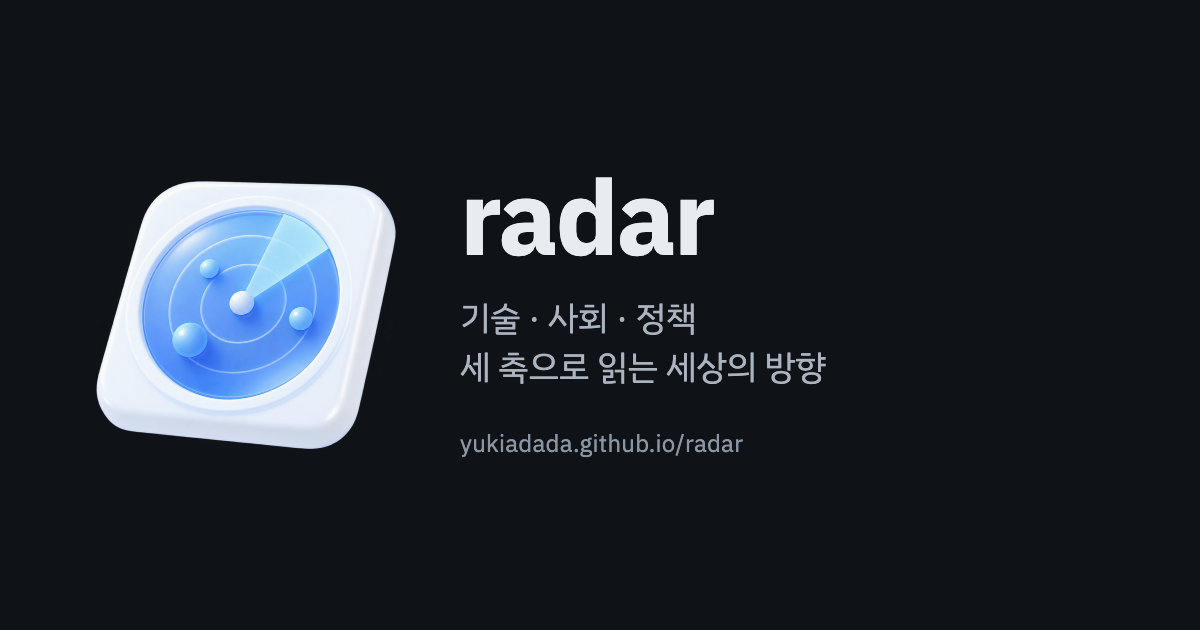
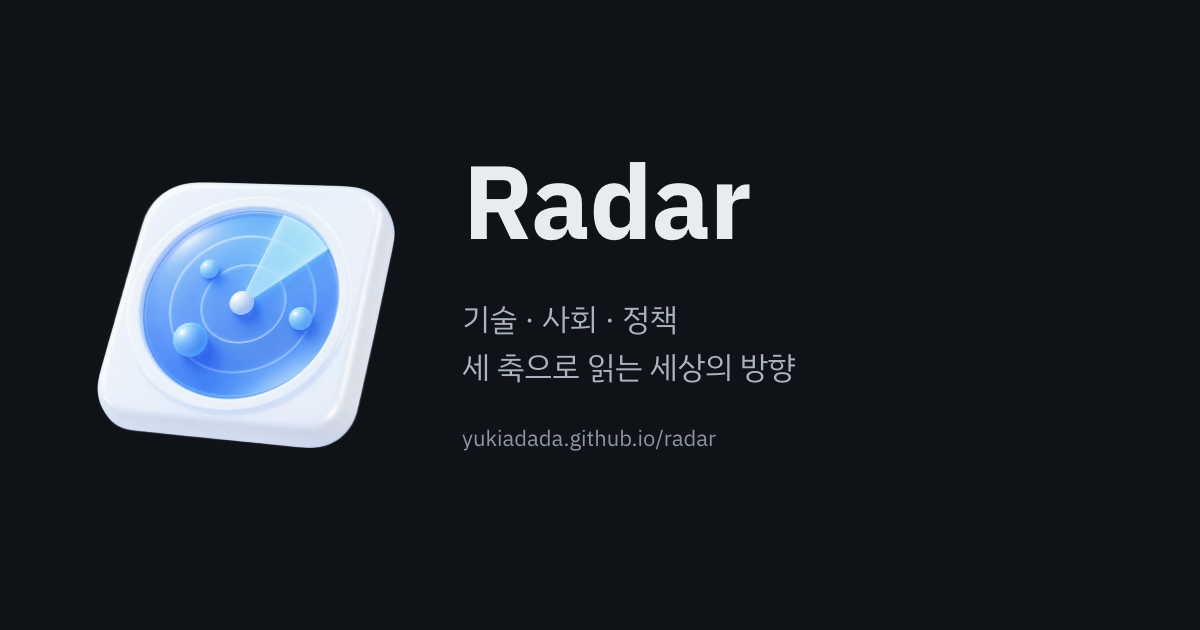
오늘 탭: 상단 요약 4칸 삭제, 오늘의 브리프를 방향별 정렬 위로, 쉬운 말로 읽는 지금의 방향을 방향별 정렬 아래로. 공유 이미지 og.png 도 Radar 로

diff --git a/site/index.html b/site/index.html
@@ -121,12 +121,6 @@ h2.sec .dim{font-size:var(--fs-sm);margin-left:8px}
 .sec-note{flex:0 0 100%;order:3;margin:0;font-size:var(--fs-sm);color:var(--ink2)}
 
 /* 한눈에 요약: 답을 먼저 */
-.sum{display:grid;grid-template-columns:repeat(auto-fit,minmax(min(220px,100%),1fr));gap:12px;margin:28px 0 0}
-.sumc{position:relative;background:var(--panel);border:1px solid var(--hair);border-radius:var(--r-card);padding:16px 18px 14px;min-width:0;overflow:hidden}
-.sumc .k{margin:0;font-size:var(--fs-cap);font-weight:600;color:var(--ink2)}
-.sumc .v{display:block;overflow-wrap:anywhere;margin:6px 0 4px;font-size:22px;font-weight:700;line-height:1.3;letter-spacing:-.02em;color:var(--ink);text-decoration:none;font-variant-numeric:tabular-nums}
-.sumc a.v:hover{text-decoration:underline}
-.sumc .d{margin:0;font-size:var(--fs-sm);color:var(--ink2);display:flex;flex-wrap:wrap;gap:4px 8px;align-items:center;font-variant-numeric:tabular-nums}
 
 /* 펼침 공통 */
 summary{cursor:pointer;list-style:none}
@@ -380,9 +374,6 @@ mark.todo{background:color-mix(in srgb,var(--neg) 10%,var(--panel));color:var(--
   .sh{margin-top:44px}
   .dash,.glance{grid-template-columns:minmax(0,1fr)}
   .dgrid{grid-template-columns:minmax(0,1fr)}
-  .sum{grid-template-columns:minmax(0,1fr) minmax(0,1fr)}
-  .sumc{padding:14px}
-  .sumc .v{font-size:19px}
   .kpis{grid-template-columns:minmax(0,1fr) minmax(0,1fr)}
   .kpi b{font-size:22px}
   .dirlead{padding:16px 18px}
@@ -394,7 +385,6 @@ mark.todo{background:color-mix(in srgb,var(--neg) 10%,var(--panel));color:var(--
   .filters label{flex:1 1 140px}
   .filters select{width:100%}
 }
-@media (max-width:420px){.sum{grid-template-columns:minmax(0,1fr)}}
 @media (prefers-reduced-motion:reduce){*,*::before,*::after{transition:none!important;animation:none!important}}
 @media (forced-colors:active){.axneg i,.axpos i,.atttrack i{forced-color-adjust:none}.lbl,.axtag,.st{border:1px solid CanvasText}}
 </style>
@@ -679,37 +669,12 @@ mark.todo{background:color-mix(in srgb,var(--neg) 10%,var(--panel));color:var(--
     const B = D.board.w30, b = D.briefs[0];
     REDRAW = null;
     const dirs = B.directions.filter(x => x.n).sort((a, c) => (c.score - a.score) || (c.n - a.n)), quiet = B.directions.filter(x => !x.n);
-    const RANK = { aligned3: 0, aligned2: 1, aligned1: 2, neutral: 3, mixed: 4, headwind: 5, none: 6 };
     const meta = [`최근 30일 장부 ${B.total}건`, `전체 ${D.ledger.length}건`, ledgerNote(), rawLine(b ? b.date : D.today)].filter(Boolean).map(esc);
     let h = pageHead({ eyebrow: fmtDate(D.today), title: '지금 세상의 방향', lede: '기술 · 사회 · 정책 세 축이 같은 쪽을 가리킬수록 %가 높습니다. 50%가 중립, 100%는 세 축 모두 밀어줌입니다.', meta });
 
-    /* 한눈에: 가장 정렬된 방향, 가장 눌린 방향, 새 근거, 시장이 근거를 따라갔는지 */
-    if (dirs.length) {
-      const top = dirs.slice().sort((a, c) => (RANK[a.label] - RANK[c.label]) || (c.score - a.score))[0];
-      const low = dirs.slice().sort((a, c) => (a.score - c.score) || (RANK[c.label] - RANK[a.label]))[0];
-      const cut7 = new Date(Date.parse(D.today + 'T00:00:00Z') - 7 * 864e5).toISOString().slice(0, 10);
-      const n7 = D.ledger.filter(r => r.date > cut7).length;
-      const sumc = (cls, k, v, d) => `<div class="sumc ${cls}"><p class="k">${k}</p>${v}<p class="d">${d}</p></div>`;
-      const dirLink = x => `<a class="v" href="#/sectors">${esc(x.direction)}</a>`;
-      let cards = sumc('pos', top.label === 'aligned3' ? '세 축이 모인 방향' : '가장 정렬된 방향', dirLink(top), `<b class="pct ${pctCls(top.score)}">${pctText(top.score)}</b>${labelHtml(top.label)}`);
-      if (low !== top) cards += sumc(low.score < 50 ? 'neg' : '', '가장 눌린 방향', dirLink(low), `<b class="pct ${pctCls(low.score)}">${pctText(low.score)}</b>${labelHtml(low.label)}`);
-      cards += sumc('', '최근 7일 새 근거', `<span class="v">${n7}건</span>`, `<a href="#/ledger">장부에서 보기</a>`);
-      if (D.market_meta) {
-        const rows30 = D.ledger.filter(r => r.date >= B.from && r.date <= B.to && D.market[r.line]), cnt = {};
-        rows30.forEach(r => { const v = D.market[r.line].verdict || '±'; cnt[v] = (cnt[v] || 0) + 1; });
-        const up = cnt['방향대로'] || 0, dn = cnt['반대로'] || 0, rest = rows30.length - up - dn;
-        if (up + dn) cards += sumc('', '시장이 근거대로 움직인 비율', `<span class="v">${Math.round(up / (up + dn) * 100)}%</span>`, `방향대로 ${up} · 반대로 ${dn}${rest ? ` · 판정 전 ${rest}` : ''}`);
-      }
-      h += `<section class="sum" aria-label="한눈에 보기">${cards}</section>`;
-    }
-
-    /* 쉬운 말 방향 브리프: 요약은 바로, 전문은 펼쳐서 */
-    const DB = D.direction_brief ? dirBriefParts(D.direction_brief) : null;
-    if (DB) {
-      h += secHead('쉬운 말로 읽는 지금의 방향', `${DB.date ? `${DB.date} 기준 · ` : ''}중학생도 읽을 수 있게 쓴 요약입니다.`);
-      h += `<div class="dirlead" id="dirlead"></div><details class="dirbrief" id="dirbrief-d"><summary>전체 브리프 읽기 <span class="dim">${DB.count ? `방향 ${DB.count}개 · ` : ''}약 ${DB.minutes}분</span></summary><div id="dirbrief"></div></details>`;
-    }
-
+    /* 오늘의 브리프: 방향별 정렬 위 */
+    if (b) h += secHead(b.date === D.today ? '오늘의 브리프' : '최근 브리프', `${fmtDate(b.date)} · 구조적 ${b.none_today ? '없음' : b.structural + '건'}`, `<a href="#/brief/${b.date}">따로 열기 →</a>`) + `<div id="brief"></div>`;
+    else h += secHead('브리프') + `<p class="empty">아직 새 체계의 브리프가 없습니다. 다음 /brief 부터 쌓입니다.</p>`;
     /* 방향 카드 */
     h += secHead('방향별 정렬', `최근 30일 ${B.from} ~ ${B.to}. 정렬 %가 높은 순서입니다.`, `<a href="#/sectors">섹터별로 보기 →</a>`);
     h += legendBox([
@@ -722,6 +687,13 @@ mark.todo{background:color-mix(in srgb,var(--neg) 10%,var(--panel));color:var(--
     h += dirs.length ? `<div class="dgrid">${dirs.map(x => dirCard(x, B, 30)).join('')}</div>` : `<p class="empty">아직 장부에 시그널이 없습니다.</p>`;
     if (quiet.length) h += `<p class="keys">신호 없는 방향: ${quiet.map(x => esc(x.direction)).join(', ')}</p>`;
 
+    /* 쉬운 말 방향 브리프: 방향별 정렬 아래. 요약은 바로, 전문은 펼쳐서 */
+    const DB = D.direction_brief ? dirBriefParts(D.direction_brief) : null;
+    if (DB) {
+      h += secHead('쉬운 말로 읽는 지금의 방향', `${DB.date ? `${DB.date} 기준 · ` : ''}중학생도 읽을 수 있게 쓴 요약입니다.`);
+      h += `<div class="dirlead" id="dirlead"></div><details class="dirbrief" id="dirbrief-d"><summary>전체 브리프 읽기 <span class="dim">${DB.count ? `방향 ${DB.count}개 · ` : ''}약 ${DB.minutes}분</span></summary><div id="dirbrief"></div></details>`;
+    }
+
     /* 섹터 한눈에 */
     const secs = B.sectors.filter(x => x.n);
     const ups = secs.filter(x => ALIGNED.includes(x.label)).sort(byScore).slice(0, 5);
@@ -731,9 +703,6 @@ mark.todo{background:color-mix(in srgb,var(--neg) 10%,var(--panel));color:var(--
     h += secHead('섹터 한눈에', '최근 30일. 막는 축이 없는 섹터와, 막는 축이 있는 섹터를 나눴습니다.', `<a href="#/sectors">전체 섹터 →</a>`);
     h += `<section class="glance"><div class="gl"><h3>밀어주는 축만 있는 섹터</h3>${ups.length ? `<ol>${ups.map(li).join('')}</ol>` : '<p class="empty">없음</p>'}</div><div class="gl neg"><h3>역풍 · 엇갈림 섹터</h3>${downs.length ? `<ol>${downs.map(li).join('')}</ol>` : '<p class="empty">없음</p>'}${neutral.length ? `<p class="keys">양쪽(± 만 있어 점수 0): ${neutral.map(x => sectorLink(x.sector)).join(', ')}</p>` : ''}</div></section>`;
 
-    /* 브리프 */
-    if (b) h += secHead(b.date === D.today ? '오늘의 브리프' : '최근 브리프', `${fmtDate(b.date)} · 구조적 ${b.none_today ? '없음' : b.structural + '건'}`, `<a href="#/brief/${b.date}">따로 열기 →</a>`) + `<div id="brief"></div>`;
-    else h += secHead('브리프') + `<p class="empty">아직 새 체계의 브리프가 없습니다. 다음 /brief 부터 쌓입니다.</p>`;
     if (D.briefs.length > 1) {
       h += secHead('지난 브리프', '', D.briefs.length > 8 ? `<a href="#/briefs">전체 ${D.briefs.length}건 →</a>` : '') + `<ul class="plain">` + D.briefs.slice(1, 8).map(x => `<li><a href="#/brief/${x.date}">${fmtDate(x.date)}</a> <span class="dim small">구조적 ${x.none_today ? '없음' : x.structural + '건'}</span></li>`).join('') + `</ul>`;
     }
